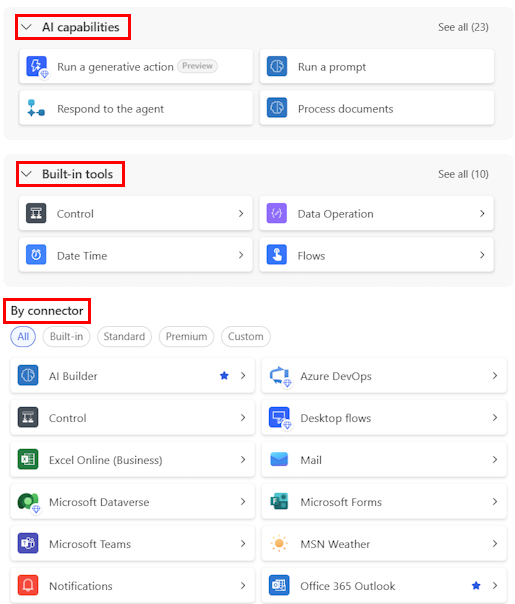
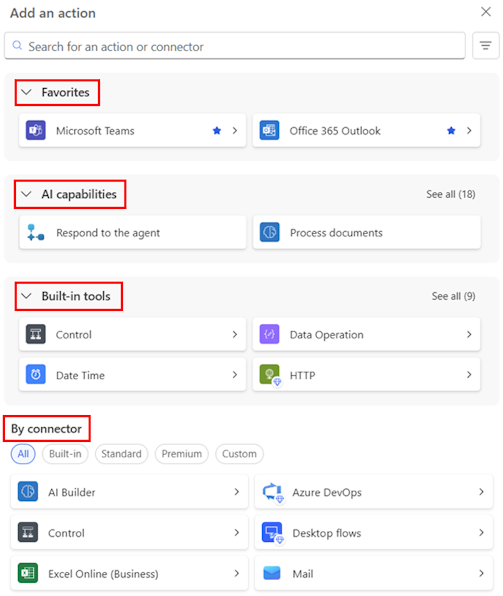
config-tab-bullet-indents

diff --git a/articles/actions-introduction.md b/articles/actions-introduction.md
@@ -8,7 +8,7 @@ contributors:
 ms.service: power-automate
 ms.subservice: cloud-flow
 ms.topic: get-started
-ms.date: 10/06/2025
+ms.date: 11/24/2025
 ms.update-cycle: 180-days
 ms.author: kewaiss
 ms.reviewer: angieandrews
@@ -21,19 +21,29 @@ ms.collection:
 
 *Actions* are the events or operations you want the flow to do after the [trigger](triggers-introduction.md) event takes place. Examples of actions are: send emails, update records, or post messages. Actions can interact with a wide variety of services and applications, which helps you automate repetitive tasks and streamline business processes without the need for manual intervention.
 
-Power Automate offers various actions that you can use in your cloud flows. There are three main categories:
+To add your first action to your flow, select the plus sign (**+**) below the trigger in the cloud flows designer. The configuration panel opens on the left side, where you can search for and select the action you want to add.
 
-- AI capabilities
-- Built-in tools
-- By connector
+The following screenshot shows the configuration panel, which is organized in four sections:
 
-Here's a screenshot of a partial list of actions:
+- **Favorites**
+- **AI capabilities**
+- **Built-in tools**
+- **By connector**
+
+Here's a screenshot of the configuration panel:
 
 :::image type="content" source="./media/actions-introduction/actions-examples.png" alt-text="Screenshot of some actions.":::
 
-- **AI Capabilities**: Uplevel AI capabilities in this standalone section.
-- **Built-in tools**: Building blocks to your flow if you want to store values in a variable, insert a loop, and more.
-- **By connector**: Connect to services such as SharePoint and Outlook. Most connectors offer prebuilt actions that you can use in your flows.
+- **Favorites**: When you favorite an action, category, or connector using the star icon, these items show in the **Favorites** section for quick retrieval. The star icon appears when you hover over it in the configuration pane.
+- **AI Capabilities**: All AI capabilities are uplevelled in this standalone section.
+- **Built-in tools**: These tools are the building blocks to your flow if you want to store values in a variable, insert a loop, and more.
+- **By connector**: Shows a list of all connectors. At the top of the list are your most frequently used 20 connectors.
+
+After you select an action for your trigger, the configuration panel updates to show the required fields and options for that action. You can fill in the necessary information, such as specifying the recipient's email address or selecting a file to attach.
+
+Continue adding actions as needed to build your flow. To add more actions, select the plus sign (**+**) below the action where you want the new action to take place. The configuration panel opens again, allowing you to search for and select another action.
+
+Learn more about adding actions in [Work with triggers and actions](work-with-triggers-actions.md).
 
 ## Choose the right actions
 
@@ -47,10 +57,10 @@ Here are some scenarios that require multiple actions and examples of actions yo
 
 |Scenario |Examples |
 |---------|---------|
-| Automate multi-step processes in your workflow. | When a new item is added to a SharePoint list, you might want to:</li><li>Send an email notification to the team.</li><li>Create a task in Microsoft Planner.</li><li>Update a database record.</li> |
+| Automate multi-step processes in your workflow. | When a new item is added to a SharePoint list, you might want to:<li style="margin-left:30px;">Send an email notification to the team.<li style="margin-left:30px;">Create a task in Microsoft Planner.<li style="margin-left:30px;">Update a database record. |
 | Add decisions using conditional logic and branching in your flow. | If a value meets certain criteria, you might send an approval request; otherwise, you update a record. This requires multiple actions organized with conditions, switches, or scopes. |
 | Build error handling in your flow. | Group actions into [scopes](scopes.md) for organization and clarity, and use run-after conditions to make your flows more reliable. |
-| Perform tasks to make your flow run faster and more efficiently. | Choose these actions to run simultaneously rather than sequentially: </li><li>Retrieve data from multiple sources.</li><li>Send multiple notifications. |
+| Perform tasks to make your flow run faster and more efficiently. | Choose these actions to run simultaneously rather than sequentially:<li style="margin-left:30px;">Retrieve data from multiple sources.<li style="margin-left:30px;">Send multiple notifications. |
 | Transform, merge, or aggregate data from different sources. | Merge multiple PDF files into one document that requires several actions to collect, process, and output the result. |
 
 ## Next step
